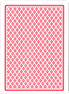
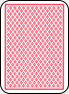
Change images used for cards in deck creation and active games.

diff --git a/PlanningPoker/src/edu/wpi/cs/wpisuitetng/modules/planningpoker/view/active/cards/CardActionListenerRefactor.java b/PlanningPoker/src/edu/wpi/cs/wpisuitetng/modules/planningpoker/view/active/cards/CardActionListenerRefactor.java
@@ -72,7 +72,7 @@ public class CardActionListenerRefactor implements ActionListener {
 	public void actionPerformed(ActionEvent e) {
 		try {
 			Image frontImg = ImageIO.read(getClass().getResource(
-					"card_front_bigger.png"));
+					"card_front.png"));
 			Image backImg = ImageIO.read(getClass()
 					.getResource("card_back.png"));
 			// if the button is the I don't know button

diff --git a/PlanningPoker/src/edu/wpi/cs/wpisuitetng/modules/planningpoker/view/active/cards/CardButton.java b/PlanningPoker/src/edu/wpi/cs/wpisuitetng/modules/planningpoker/view/active/cards/CardButton.java
@@ -62,7 +62,7 @@ public class CardButton extends JToggleButton implements Accessible {
 		// button = new JToggleButton(buttonNum);
 		try {
 			Image frontImg = ImageIO.read(getClass().getResource(
-					"card_front_bigger.png"));
+					"card_front.png"));
 			setIcon(new ImageIcon(frontImg));
 			setBorder(new EmptyBorder(0,0,0,0));
 //			setContentAreaFilled(false);
